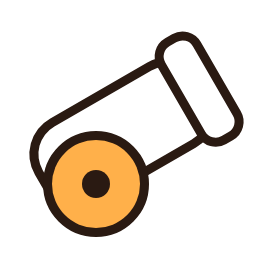
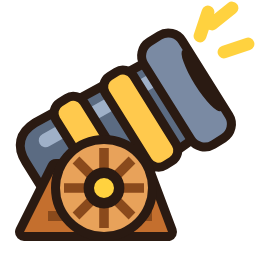
Clean symbols: richer My Cafe, Cannon and Potion, new Trade (#1024)
Derek, live v181: the clean My Cafe, Cannon and Potion symbols were too
simple, and Trade had none. Redrawn in icons.js (cafe front with awning,
banded barrel on a wooden carriage, glass potion with bubbles) and a new
two-arrow Trade symbol, rendered to 256 px PNGs. iconshot.cjs can render
a subset. The HUD Trade tile asks for ShopIcons.clean("Trade") and keeps
its glyph until Derek's project uploads the pictures.

Claude-Session: https://claude.ai/code/session_01DW2uoy8yAmnkvei9XXSDMk

diff --git a/assets/cat-cafe/ui/icons-clean-2026-11-03/source/icons.js b/assets/cat-cafe/ui/icons-clean-2026-11-03/source/icons.js
@@ -48,16 +48,41 @@ window.ICONS = {
   menu: `<g transform="translate(32 32)">
     ${[0, 45, 90, 135].map((a) => `<rect x="-6" y="-27" width="12" height="54" rx="4" fill="#fff" stroke="${O}" stroke-width="4.5" transform="rotate(${a})"/>`).join('')}
     <circle r="19" fill="#fff"/><circle r="8" fill="#a9b6c8" stroke="${O}" stroke-width="4"/></g>`,
-  home: `<path ${S} fill="#fff" d="M6 32 L32 8 L58 32 H51 V57 H13 V32 Z"/>
-    <path ${S} fill="#ff9a3c" stroke-width="3.5" d="M26 57 V42 Q26 37 32 37 Q38 37 38 42 V57 Z"/>`,
-  cannon: `<g transform="rotate(-30 30 36)"><rect ${S} x="10" y="24" width="44" height="20" rx="8" fill="#fff"/>
-    <rect ${S} x="50" y="21" width="8" height="26" rx="3" fill="#fff"/></g>
-    <circle ${S} cx="24" cy="46" r="11" fill="#ffb04a"/><circle cx="24" cy="46" r="3.5" fill="${O}"/>`,
+  home: `<path ${S} fill="#ffe7c2" d="M10 30 H54 V58 H10 Z"/>
+    <path ${S} fill="#ff6b4a" d="M4 31 L12 12 Q13 9 16 9 H48 Q51 9 52 12 L60 31 Z"/>
+    <path d="M14 11 L11 30 M24 10 L23 30 M34 10 V30 M44 10 L45 30 M53 12 L56 30" stroke="#fff" stroke-width="4" opacity=".9"/>
+    <path ${S} fill="#ff6b4a" stroke-width="3.5" d="M6 30 Q10.5 37 15 30 Q19.5 37 24 30 Q28.5 37 33 30 Q37.5 37 42 30 Q46.5 37 51 30 Q55.5 37 58 30 Z"/>
+    <rect ${S} stroke-width="3.5" x="14" y="40" width="15" height="12" rx="2.5" fill="#8fd8ff"/>
+    <path d="M17 49 L25 42" stroke="#fff" stroke-width="2.5" stroke-linecap="round" opacity=".9"/>
+    <path ${S} stroke-width="3.5" fill="#b8692e" d="M35 58 V43 Q35 39 39.5 39 H44.5 Q49 39 49 43 V58 Z"/>
+    <circle cx="45.5" cy="49.5" r="1.8" fill="#ffd23f"/>
+    <path ${S} stroke-width="2.6" fill="#fff" d="M25 18 H37 V22 Q37 26 31 26 Q25 26 25 22 Z"/>
+    <path d="M37 19.5 Q40.5 19.5 40.5 21.5 Q40.5 23.5 37 23.5" stroke="${O}" stroke-width="2.2" fill="none"/>`,
+  cannon: `<path d="M50 9 L52 3 M56 13 L62 11 M53 6 L58 2" stroke="#ffd23f" stroke-width="3.2" stroke-linecap="round"/>
+    <g transform="rotate(-32 32 34)">
+    <path ${S} fill="#5b6b82" d="M8 26 Q8 20 14 20 L48 22 V42 L14 44 Q8 44 8 38 Z"/>
+    <path d="M14 24 L46 25.5" stroke="#9fb0c8" stroke-width="3.5" stroke-linecap="round"/>
+    <rect ${S} stroke-width="3.5" x="20" y="19" width="6" height="26" rx="2" fill="#ffc94d"/>
+    <rect ${S} stroke-width="3.5" x="34" y="20" width="6" height="24" rx="2" fill="#ffc94d"/>
+    <rect ${S} x="46" y="18" width="9" height="28" rx="3" fill="#7a8aa3"/>
+    <ellipse cx="55" cy="32" rx="2" ry="9" fill="${O}"/></g>
+    <path ${S} fill="#c46f2e" d="M6 58 L14 42 H36 L42 58 Z"/>
+    <path d="M12 54 H38" stroke="#8a4a1c" stroke-width="2.5"/>
+    <circle ${S} cx="26" cy="47" r="11" fill="#e8a25a"/>
+    <path d="M26 37 V57 M16 47 H36 M19 40 L33 54 M33 40 L19 54" stroke="#8a4a1c" stroke-width="2.4"/>
+    <circle cx="26" cy="47" r="3.8" fill="#ffd23f" stroke="${O}" stroke-width="2.6"/>`,
   areas: `<path ${S} fill="#fff" d="M32 58 Q12 36 12 24 A20 20 0 0 1 52 24 Q52 36 32 58 Z"/>
     <circle cx="32" cy="24" r="7" fill="#ff5d5d" stroke="${O}" stroke-width="3.5"/>`,
-  potion: (liquid = '#d36bff') => `<path ${S} fill="#fff" d="M25 6 H39 V20 Q54 27 54 41 A22 20 0 0 1 10 41 Q10 27 25 20 Z"/>
-    <path d="M14 40 Q20 36 32 39 Q44 42 50 39 A18 16 0 0 1 14 40 Z" fill="${liquid}"/>
-    <circle cx="25" cy="44" r="3" fill="#fff" opacity=".8"/><rect x="23" y="3" width="18" height="6" rx="2.5" fill="#c58b55" stroke="${O}" stroke-width="3.5"/>`,
+  potion: (liquid = '#d36bff') => `<path ${S} fill="#eaf6ff" d="M25 10 H39 V21 Q55 28 55 42 A23 20 0 0 1 9 42 Q9 28 25 21 Z"/>
+    <path d="M11.5 40 Q20 34 32 38 Q44 42 52.5 38 Q54 52 32 60 Q10 52 11.5 40 Z" fill="${liquid}"/>
+    <path d="M11.5 40 Q20 34 32 38 Q44 42 52.5 38" stroke="#fff" stroke-width="2.5" fill="none" opacity=".75" stroke-linecap="round"/>
+    <path d="M16 46 Q17 54 26 57" stroke="${O}" stroke-width="2.5" fill="none" opacity=".18" stroke-linecap="round"/>
+    <circle cx="38" cy="47" r="3.2" fill="#fff" opacity=".85"/><circle cx="30" cy="52" r="2" fill="#fff" opacity=".85"/><circle cx="43" cy="53" r="1.6" fill="#fff" opacity=".85"/>
+    <path d="M17 33 Q20 27 26 25" stroke="#fff" stroke-width="4" fill="none" stroke-linecap="round"/>
+    <path ${S} stroke-width="3.5" fill="#d9e9f5" d="M23 12 H41 V17 H23 Z"/>
+    <path ${S} stroke-width="3.5" fill="#c58b55" d="M25 3 H39 Q41 3 41 5 V12 H23 V5 Q23 3 25 3 Z"/>
+    <path d="M28 5 V10 M33 5 V10" stroke="#9a6534" stroke-width="2"/>
+    <path fill="#fff" stroke="${O}" stroke-width="2" stroke-linejoin="round" d="M53 10 L54.6 14.4 L59 16 L54.6 17.6 L53 22 L51.4 17.6 L47 16 L51.4 14.4 Z"/>`,
   bowl: `<path ${S} fill="#fff" d="M6 34 H58 Q56 56 32 56 Q8 56 6 34 Z"/>
     <path ${S} fill="#ffb04a" stroke-width="3.5" d="M18 30 Q28 18 40 26 L48 20 L47 34 L40 30 Q28 38 18 30 Z"/>
     <circle cx="23" cy="28" r="2" fill="${O}"/>`,
@@ -75,6 +100,10 @@ window.ICONS = {
     <path d="M50 16 V52" stroke="#9a5a22" stroke-width="3"/>
     <circle cx="26" cy="40" r="11" fill="#ffd23f" stroke="${O}" stroke-width="4"/>
     <text x="26" y="47" text-anchor="middle" font-family="Fredoka" font-weight="700" font-size="20" fill="#fff" stroke="${O}" stroke-width="3.5" paint-order="stroke">?</text>`,
+  trade: `<path ${S} fill="#4fc3ff" d="M8 24 Q8 14 18 14 H40 V6 L58 20 L40 34 V26 H20 Q18 26 18 28 V30 H8 Z"/>
+    <path d="M13 22 Q14 18 19 18 H42" stroke="#fff" stroke-width="3" fill="none" stroke-linecap="round" opacity=".8"/>
+    <path ${S} fill="#ffb04a" d="M56 40 Q56 50 46 50 H24 V58 L6 44 L24 30 V38 H44 Q46 38 46 36 V34 H56 Z"/>
+    <path d="M51 42 Q50 46 45 46 H22" stroke="#fff" stroke-width="3" fill="none" stroke-linecap="round" opacity=".8"/>`,
   caviar: `<ellipse ${S} cx="32" cy="44" rx="25" ry="12" fill="#5fb7ff"/>
     <ellipse ${S} cx="32" cy="34" rx="25" ry="11" fill="#e9f5ff"/>
     ${[[20, 32], [27, 29], [34, 31], [41, 28], [24, 37], [31, 36], [38, 37], [45, 34]].map(([x, y]) => `<circle cx="${x}" cy="${y}" r="3.6" fill="#ff7a2f" stroke="${O}" stroke-width="1.6"/>`).join('')}`,

diff --git a/assets/cat-cafe/ui/icons-clean-2026-11-03/README.md b/assets/cat-cafe/ui/icons-clean-2026-11-03/README.md
@@ -13,7 +13,7 @@ Derek OK'd the look on 2026-11-03 ("Build it as shown"; the crate was redrawn af
 | Icon_Clean_Areas | 126370922327019 |
 | Icon_Clean_Bag | 81699518945581 |
 | Icon_Clean_Bowl | 80050724855728 |
-| Icon_Clean_Cannon | 112726655919470 |
+| Icon_Clean_Cannon | 112726655919470 (redrawn 11-03 with a banded barrel and wooden carriage for #1024: upload pending) |
 | Icon_Clean_Cats | 111022016391627 (redrawn 01:44; first upload 73281357166646 unused) |
 | Icon_Clean_Caviar | 94374227160258 |
 | Icon_Clean_Coin | 112195289471900 |
@@ -21,14 +21,19 @@ Derek OK'd the look on 2026-11-03 ("Build it as shown"; the crate was redrawn af
 | Icon_Clean_Decor | 130851033023889 (redrawn 01:44; first upload 73990946688611 unused) |
 | Icon_Clean_Feedback | 101390180819645 |
 | Icon_Clean_Fish | 111395416488950 |
-| Icon_Clean_Home | 102266682155402 |
+| Icon_Clean_Home | 102266682155402 (redrawn 11-03 as a cafe front for #1024: upload pending) |
 | Icon_Clean_Index | 72904412280830 |
 | Icon_Clean_Menu | 76526281703913 |
-| Icon_Clean_Potion | 74312502748629 |
+| Icon_Clean_Potion | 74312502748629 (redrawn 11-03 with glass, bubbles, cork and a sparkle for #1024: upload pending) |
 | Icon_Clean_Quests | 120388931985566 |
 | Icon_Clean_Rewards | 100352240603614 |
 | Icon_Clean_Store | 125596282319075 (redrawn 01:44; first upload 133073738193868 unused) |
 | Icon_Clean_Tutorial | 109885867788208 |
 | Icon_Clean_Upgrades | 90691118878000 |
+| Icon_Clean_Trade | new 11-03 for #1024 (two swap arrows, the HUD's Trade tile): upload pending |
 
 Tile colours used in the mockup (top to bottom gradient): Cats #6fc0ff to #2f86ef, Index #7ae86f to #2fb043, Quests #ffe46b to #f5ac12, Upgrades #ffb15a to #f06a1d, Decor #62ecd2 to #18ab95, Store (a wide tile, first in the left column) #fff07a to #ffc61f to #ff8f1f with a white shine, Tutorial and Potions #cf96ff to #8a47ea, Rewards and Cannon #ff8a7a to #e4402f, Feedback and Areas #8fe3ff to #2bb3e6, Menu #c9d4e3 to #7f8fa6, My Cafe orange like Upgrades, Bait blue like Cats. Outline 4 px #2a1a12, corner 20 px on a 78 px tile, label 18 px Fredoka bold, white with a 5 px dark outline.
+
+## #1024 redraw (friend's UI-Engineer, 2026-11-03)
+
+Derek, live v181: "cafe and cannon simple still suck and potions", plus a missing Trade symbol. Home, Cannon and Potion were redrawn with more detail (awning and window, banded barrel on a wooden carriage, glass with bubbles), and Trade is new. Re-render only these with `node iconshot.cjs <abs>/icons-render.html <abs out dir> home,cannon,potion,trade`. They need a new upload (`upload-image.yml`, which only Derek's project runs) and then `asset-permissions.yml`. After that the new ids go in `games/cat-cafe/src/client/UI/Components/ShopIcons.luau`. The HUD Trade tile already asks for `ShopIcons.clean("Trade")` and keeps its glyph until the id is there.
